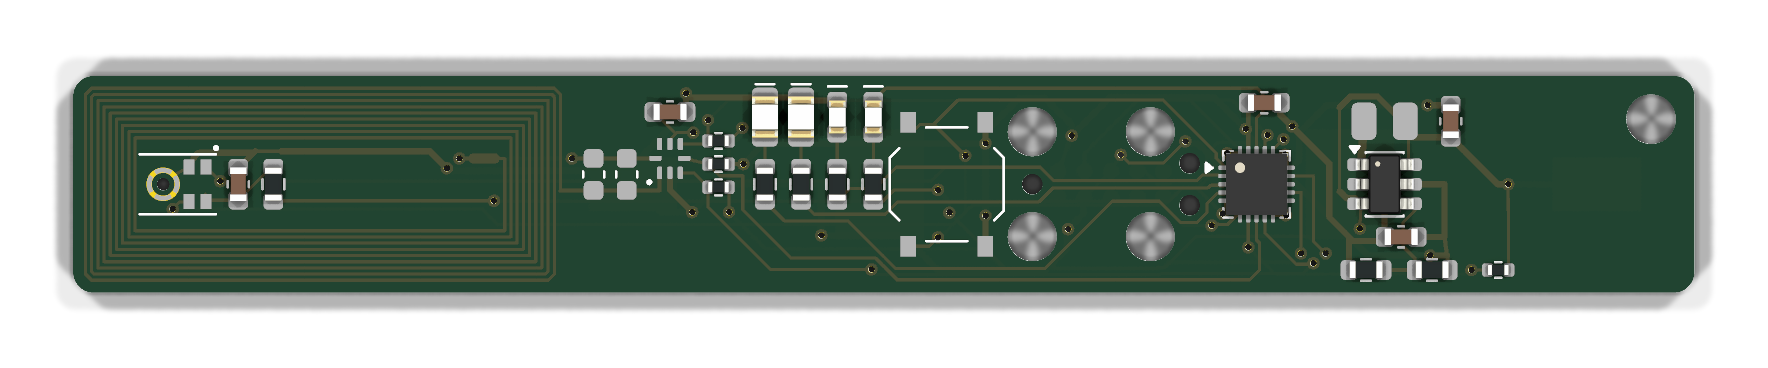
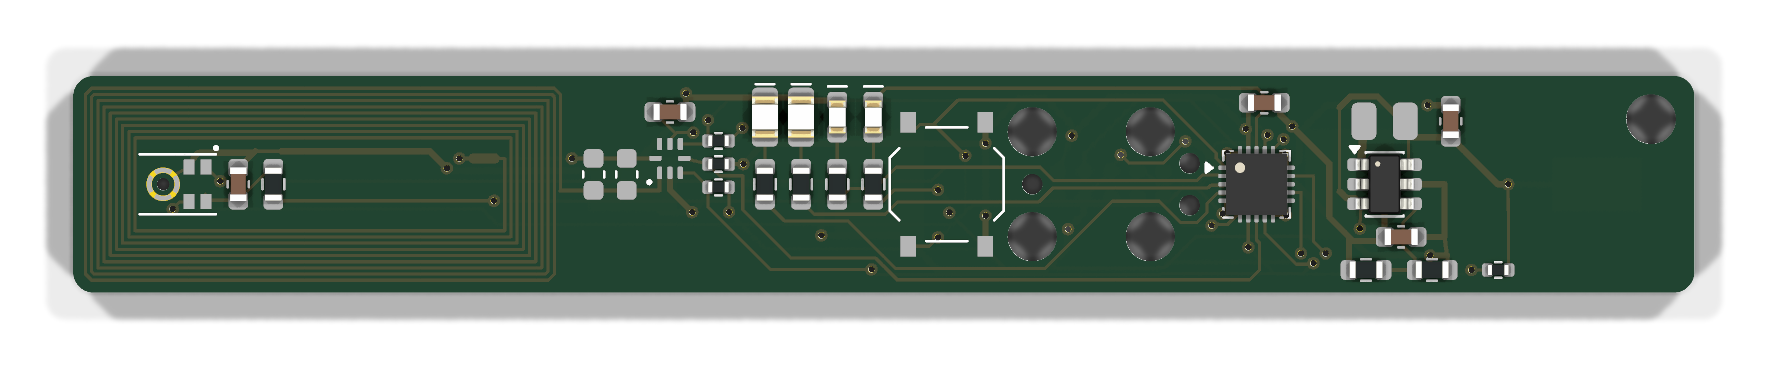
hardware/b1: board thickness 1.6 mm, as ordered
JLC's order form would not take 1.0 mm for this order. Nothing in the
layout depends on thickness: after regenerating, every copper, mask,
paste, silk and drill file and the BOM and CPL are identical to the
audited set apart from timestamps; only the job file's thickness and
dielectric figures change. The set already uploaded stays valid.

Refs #5

diff --git a/hardware/b1/tools/make_pcb.py b/hardware/b1/tools/make_pcb.py
@@ -8,7 +8,7 @@ under our fab rules, UUIDs derive from content, DRC with schematic parity is the
   python3 hardware/b1/tools/make_pcb.py
   python3 hardware/b1/tools/fab.py
 
-Board: the stick, 10.5 x 78.5 x 1.0 mm, 4 layers, every machine-placed part on the front. The
+Board: the stick, 10.5 x 78.5 x 1.6 mm, 4 layers, every machine-placed part on the front. The
 outline and the antenna block (coil in the tip, the LB crossover, tag, trim pads, the AAA
 contacts on the back) come from ../lib/antenna.py, identical to the NFC test board's. Along
 the stick from the tip: the mic inside the coil with its port through the board, the tag, the
@@ -44,7 +44,7 @@ KRT = os.environ.get('KRT', '/home/mui/src/KicadRoutingTools')
 
 W, H = ant.L, ant.W           # board, mm: x along the stick
 X0, Y0 = 100.0, 100.0
-THICKNESS = 1.0
+THICKNESS = 1.6          # JLC would not take 1.0 mm with this order (2026-11-16)
 TRACK, CLEAR, VIA, DRILL = 0.15, 0.15, ant.VIA, ant.DRILL
 POWER = ['/GND', '/VDD', '/VCELL']
 LAYERS = ['F.Cu', 'In1.Cu', 'In2.Cu', 'B.Cu']   # 4 layers, no planes: the inner two are for signals

diff --git a/hardware/b1/tools/stick_sketch.py b/hardware/b1/tools/stick_sketch.py
@@ -26,7 +26,7 @@ S_COIL = (0.25, 0.25, 22.0, 10.0)         # coil zone: x, y, length, width (oute
 S_TW, S_PITCH, S_TURNS = 0.15, 0.30, 9
 S_CELL = (26.0, 44.5, 10.5)               # x start, length, diameter (Energizer L92)
 S_LANYARD = 5.0                           # case past the board's far end, for a lanyard hole
-S_PARTS_H, S_BOARD_T = 1.5, 1.0           # tallest part (button), board thickness
+S_PARTS_H, S_BOARD_T = 1.5, 1.6           # tallest part (button), board thickness
 
 # CR1632 stick: cell under the far end of the board, coil zone at the tip, as on B1.
 C_W, C_L, C_CELL_D = 18.0, 40.0, 16.0

diff --git a/docs/rev-b.md b/docs/rev-b.md
@@ -263,7 +263,7 @@ TLV61220 at 3.0 V: FB is 0.5 V, R1 = 1 MΩ, R2 = 200 kΩ. The datasheet wants at
 **Settled in the redraw:**
 - Coil: Sunlord MPL2016S4R7MHT (C98335), 4.7 µH in 2.0 × 1.6 mm.
 - Cell contacts: hand-fitted on the back, so JLC assembly stays one-sided.
-- Board 10.5 × 78.5 × 1.0 mm (2 mm added at the far end so the ring hole clears the + contact). Button about mid-stick, then a Tag-Connect TC2050-IDC (legged) footprint with its pads on the back, its holes between the cell contacts' base pads, so the cell comes out to program; the MCU and the boost converter just past it, and a 2.4 mm ring hole in the far corner (2026-11-14; a 94 mm draft had the Tag-Connect and a keyring hole past the + contact). A keyring with keys goes on the case; the drawn antenna is 9 turns of 0.15/0.15 mm in 23 × 9.3 mm, about 2.25 µH.
+- Board 10.5 × 78.5 × 1.6 mm (ordered at 1.6 mm, JLC not offering 1.0 mm for this order; 2 mm added at the far end so the ring hole clears the + contact). Button about mid-stick, then a Tag-Connect TC2050-IDC (legged) footprint with its pads on the back, its holes between the cell contacts' base pads, so the cell comes out to program; the MCU and the boost converter just past it, and a 2.4 mm ring hole in the far corner (2026-11-14; a 94 mm draft had the Tag-Connect and a keyring hole past the + contact). A keyring with keys goes on the case; the drawn antenna is 9 turns of 0.15/0.15 mm in 23 × 9.3 mm, about 2.25 µH.
 - 4 layers. Two would not route in 10.5 mm: the MCU's fan-out, the tag's lines and the mic's lines share one corridor, and the cell contacts' pads fill the middle of the back. The inner layers carry signals only, with no planes, and every layer under the coil stays clear. The NFC test board is 4 layers too (inner ones empty), so the coil sees the same stack-up.
 
 **Still open:**

diff --git a/hardware/b1/README.md b/hardware/b1/README.md
@@ -1,6 +1,6 @@
 # B1 (rev B)
 
-A stick, 10.5 × 78.5 × 1.0 mm, 4 layers, with the mic at the tip and one AAA cell on the back: rev A's metering, with the log readable by tapping a phone. Scope and part choices are in [docs/rev-b.md](../../docs/rev-b.md#b1-stick-aaa-instead-of-cr2032-decided-2026-11-09).
+A stick, 10.5 × 78.5 × 1.6 mm, 4 layers, with the mic at the tip and one AAA cell on the back: rev A's metering, with the log readable by tapping a phone. Scope and part choices are in [docs/rev-b.md](../../docs/rev-b.md#b1-stick-aaa-instead-of-cr2032-decided-2026-11-09).
 
 ![top render](production/render-top.png)
 
@@ -97,7 +97,7 @@ Same procedure as rev A ([../README.md](../README.md)). Routing is signals first
 - Extended parts (JLC setup fee each): L1, MK1, U1, U2, U3. The rest are Basic.
 - **ENIG finish:** flat pads for the mic's seal ring and the QFNs, and J1's pads are bare contacts for pogo pins.
 - **Check JLC's DFM preview** for the mic: its rotation, and that the copper ring round the 0.6 mm port isn't trimmed (JLC may remove thin copper rings at NPTHs).
-- 4 layers at 1.0 mm.
+- 4 layers at 1.6 mm. Drawn for 1.0 mm, but JLC's order form would not take 1.0 mm for this order (2026-11-16); nothing in the layout depends on it. The mic's port is 0.6 mm longer for it.
 - U2's GND via sits in the exposed pad, between the paste windows: expect a little solder wicking.
 - Only a small ring hole (H1) in the PCB: a keyring with keys goes on the case. J1's 2.4 mm clip holes can take locating pegs from the case's front half; on the back they're under the cell, so pegs from that side must stop short of it.
 - No reverse-cell protection: a reversed AAA puts −1.5 V on the TLV61220 (abs. min −0.3 V). The case must key the cell's direction.
